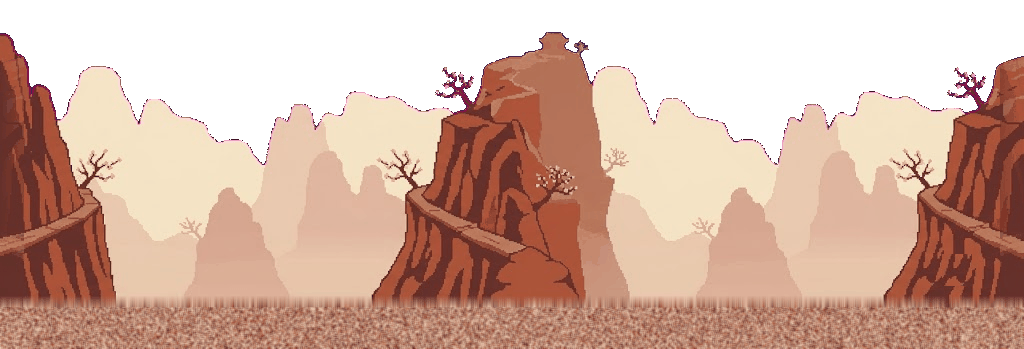
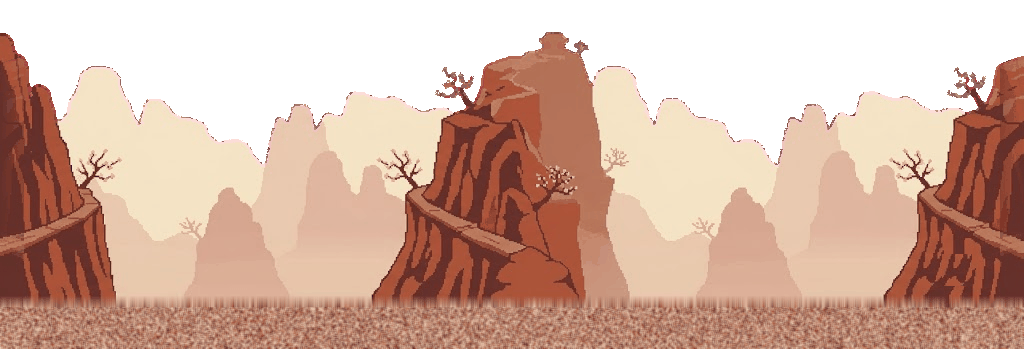
hqbg — 마젠타 잔털 판정을 '초록이 적·청 둘 다보다 낮음'으로 (화산 붉은 바위가 걷히던 것) · 무당·화산 원경 재추출
Claude-Session: https://claude.ai/code/session_01JNaHhiKtytcgy14ocCuYm4

diff --git a/hqbg.py b/hqbg.py
@@ -91,7 +91,8 @@ if '--defringe' in opts:
     arr = np.array(Image.open(out).convert('RGBA')).astype(int)
     op = arr[:, :, 3] >= 100
     rr, gg, bb = arr[:, :, 0], arr[:, :, 1], arr[:, :, 2]
-    cand = op & (gg < (rr + bb) / 2.0 - 10)            # 초록이 적·청 평균보다 낮다 = 자주 계열
+    # 초록이 적·청 **둘 다**보다 낮아야 마젠타 계열 — 평균으로 재면 화산의 붉은 바위(적>초>청)까지 걷는다
+    cand = op & (gg < rr - 10) & (gg < bb - 10)
     lab, nn = ndimage.label(cand, np.ones((3, 3)))
     touch = np.unique(lab[ndimage.binary_dilation(~op, np.ones((3, 3))) & cand])
     keep = np.zeros(nn + 1, bool); keep[touch[touch > 0]] = True
